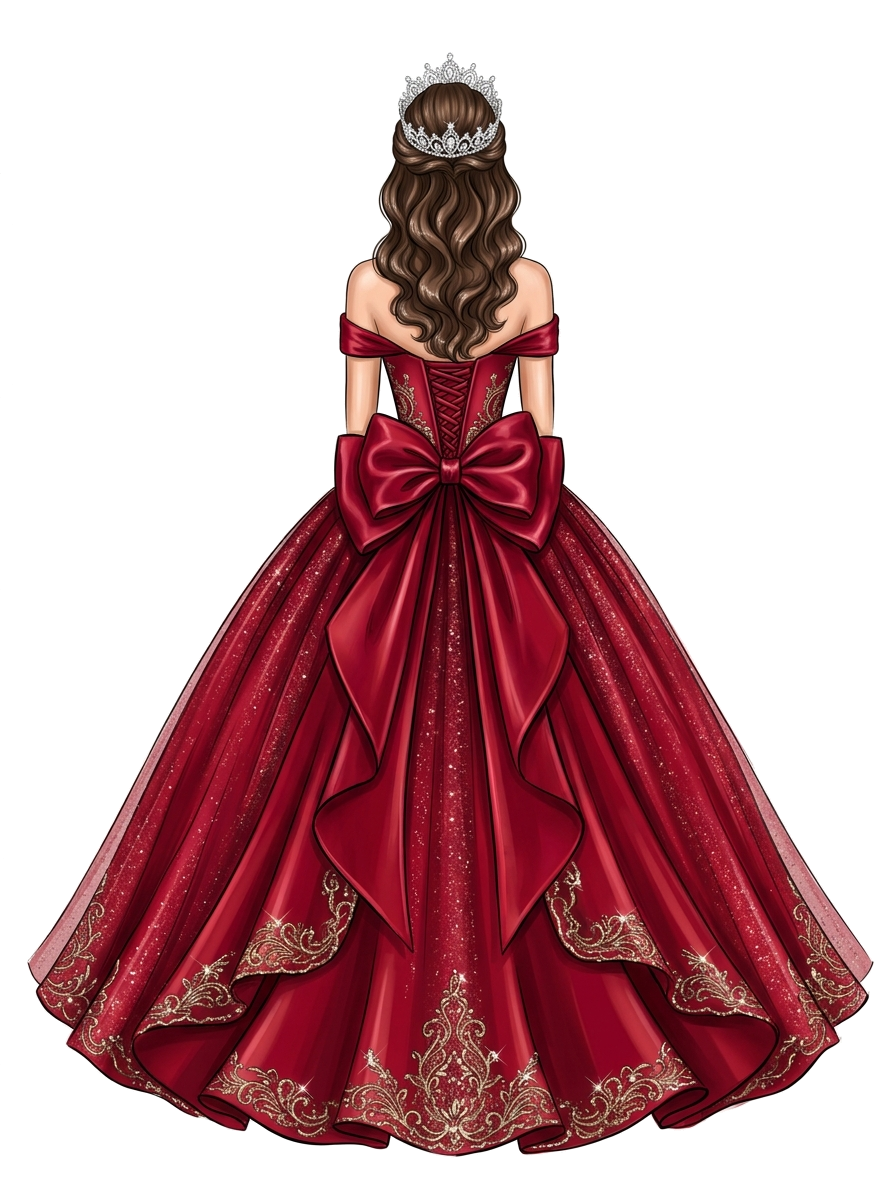
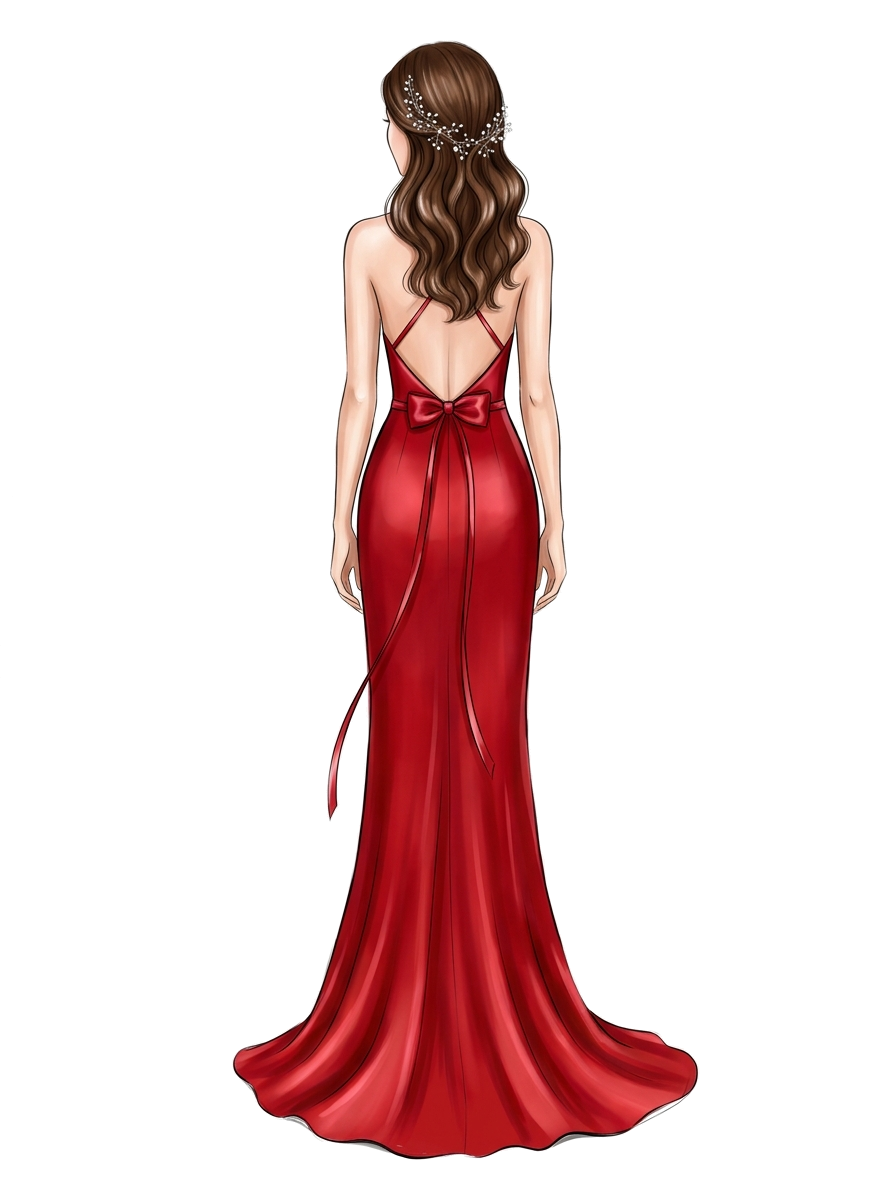
feat(adrianadiaz): update text to 21st Birthday and replace illustration with elegant apple red evening gown

diff --git a/adrianadiaz/index.html b/adrianadiaz/index.html
@@ -5,31 +5,31 @@
   <meta charset="UTF-8" />
   <meta name="viewport" content="width=device-width, initial-scale=1.0, viewport-fit=cover" />
   <meta name="theme-color" content="#fbf8f3" />
-  <title>Adriana — Celebration</title>
-  <meta name="title" content="Adriana — Celebration" />
+  <title>Adriana — 21st Birthday</title>
+  <meta name="title" content="Adriana — 21st Birthday" />
   <meta name="description"
-    content="Join us to celebrate Adriana. Saturday, December 12, 2026 at 9095 Carmen Avila Rd, Edinburg, TX." />
+    content="Join us to celebrate Adriana's 21st Birthday! Saturday, December 12, 2026 at 9095 Carmen Avila Rd, Edinburg, TX." />
 
   <!-- Open Graph / iMessage / WhatsApp / Facebook Link Previews -->
   <meta property="og:type" content="website" />
   <meta property="og:url" content="https://disenosluna.com/adrianadiaz/" />
-  <meta property="og:site_name" content="Adriana — Celebration" />
-  <meta property="og:title" content="Adriana — Celebration" />
+  <meta property="og:site_name" content="Adriana — 21st Birthday" />
+  <meta property="og:title" content="Adriana — 21st Birthday" />
   <meta property="og:description"
-    content="Join us to celebrate Adriana. Saturday, December 12, 2026 at 9095 Carmen Avila Rd, Edinburg, TX." />
+    content="Join us to celebrate Adriana's 21st Birthday! Saturday, December 12, 2026 at 9095 Carmen Avila Rd, Edinburg, TX." />
   <meta property="og:image" content="https://disenosluna.com/adrianadiaz/photos/og-preview.jpg" />
   <meta property="og:image:secure_url" content="https://disenosluna.com/adrianadiaz/photos/og-preview.jpg" />
   <meta property="og:image:type" content="image/jpeg" />
   <meta property="og:image:width" content="1200" />
   <meta property="og:image:height" content="675" />
-  <meta property="og:image:alt" content="Celebration invitation for Adriana" />
+  <meta property="og:image:alt" content="21st Birthday celebration invitation for Adriana" />
 
   <!-- Twitter / X Card Link Previews -->
   <meta name="twitter:card" content="summary_large_image" />
   <meta name="twitter:url" content="https://disenosluna.com/adrianadiaz/" />
-  <meta name="twitter:title" content="Adriana — Celebration" />
+  <meta name="twitter:title" content="Adriana — 21st Birthday" />
   <meta name="twitter:description"
-    content="Join us to celebrate Adriana. Saturday, December 12, 2026 at 9095 Carmen Avila Rd, Edinburg, TX." />
+    content="Join us to celebrate Adriana's 21st Birthday! Saturday, December 12, 2026 at 9095 Carmen Avila Rd, Edinburg, TX." />
   <meta name="twitter:image" content="https://disenosluna.com/adrianadiaz/photos/og-preview.jpg" />
 
   <!-- Favicon / Apple Touch Icon -->
@@ -53,7 +53,7 @@
        BESPOKE ENVELOPE ENTRY POPUP
   ══════════════════════════════════════════════════════════════ -->
   <div id="entry-popup-overlay" class="entry-overlay" role="dialog" aria-modal="true"
-    aria-label="Invitation for Adriana's Celebration">
+    aria-label="Invitation for Adriana's 21st Birthday">
 
     <!-- Floating Luxury Bow & Sparkle Elements in the Sky Background -->
     <div class="entry-cloud-western-elements" aria-hidden="true">
@@ -132,11 +132,11 @@
             <!-- Single celebrant portrait in soft arch -->
             <div class="card-portrait-ring">
               <span class="card-portrait-arch"><img src="photos/celebrant.png" alt="Adriana"
-                  class="card-portrait-img" style="object-position: center 20%;" /></span>
+                  class="card-portrait-img" style="object-position: center 10%;" /></span>
             </div>
 
             <!-- Title & Celebrant Name -->
-            <div class="card-quince-script" data-i18n="invite-quince">The Celebration of</div>
+            <div class="card-quince-script" data-i18n="invite-quince">21st Birthday</div>
             <h2 class="card-celebrant-name">ADRIANA</h2>
             <div class="card-flourish-accent" aria-hidden="true">✦ &nbsp; ❦ &nbsp; ✦</div>
           </div>
@@ -260,9 +260,9 @@
 
         <p class="parents-line" data-i18n="invite-parents" style="display: none;"></p>
 
-        <p class="invite-preamble" data-i18n="invite-preamble">CORDIALLY INVITES YOU TO CELEBRATE</p>
+        <p class="invite-preamble" data-i18n="invite-preamble">CORDIALLY INVITES YOU TO CELEBRATE THE</p>
 
-        <h1 class="quince-script-title" data-i18n="invite-quince">The Celebration of</h1>
+        <h1 class="quince-script-title" data-i18n="invite-quince">21st Birthday of</h1>
 
         <p class="daughter-subtitle" data-i18n="invite-daughter" style="display: none;"></p>
 
@@ -283,7 +283,7 @@
 
         <!-- ─── ENRICHMENT MODULE 1: ADD TO CALENDAR BUTTONS ─── -->
         <div class="calendar-btn-group scroll-fade-in" style="display: flex; gap: 0.65rem; justify-content: center; align-items: center; margin: 0.9rem auto 0.4rem; flex-wrap: wrap;">
-          <a href="https://calendar.google.com/calendar/render?action=TEMPLATE&text=Adriana%27s+Celebration&dates=20261212T180000/20261213T010000&details=Join+us+to+celebrate+Adriana!+Reception+starts+at+6:00+PM.&location=9095+Carmen+Avila+Rd%2C+Edinburg%2C+TX+78542"
+          <a href="https://calendar.google.com/calendar/render?action=TEMPLATE&text=Adriana%27s+21st+Birthday&dates=20261212T180000/20261213T010000&details=Join+us+to+celebrate+Adriana%27s+21st+Birthday!+Party+starts+at+6:00+PM.&location=9095+Carmen+Avila+Rd%2C+Edinburg%2C+TX+78542"
             target="_blank" rel="noopener noreferrer" class="calendar-add-btn"
             style="display: inline-flex; align-items: center; gap: 6px; padding: 0.45rem 0.95rem; font-family: 'Montserrat', sans-serif; font-size: 0.68rem; font-weight: 600; letter-spacing: 0.12em; text-transform: uppercase; color: #a31d24; background: #fffdfa; border: 1.2px solid rgba(163,29,36,0.35); border-radius: 20px; text-decoration: none; box-shadow: 0 2px 8px rgba(163,29,36,0.08); transition: transform 0.2s ease, box-shadow 0.2s ease;">
             <svg viewBox="0 0 24 24" width="13" height="13" fill="none" stroke="currentColor" stroke-width="2" stroke-linecap="round" stroke-linejoin="round">
@@ -294,8 +294,8 @@
             </svg>
             <span>+ Google Calendar</span>
           </a>
-          <a href="data:text/calendar;charset=utf8,BEGIN:VCALENDAR%0AVERSION:2.0%0ABEGIN:VEVENT%0ASUMMARY:Adriana%27s%20Celebration%0ADESCRIPTION:Join%20us%20to%20celebrate%20Adriana!%20Reception%20starts%20at%206:00%20PM.%0ALOCATION:9095%20Carmen%20Avila%20Rd%2C%20Edinburg%2C%20TX%2078542%0ADTSTART:20261213T000000Z%0ADTEND:20261213T060000Z%0AEND:VEVENT%0AEND:VCALENDAR"
-            download="Adrianas-Celebration.ics" class="calendar-add-btn"
+          <a href="data:text/calendar;charset=utf8,BEGIN:VCALENDAR%0AVERSION:2.0%0ABEGIN:VEVENT%0ASUMMARY:Adriana%27s%2021st%20Birthday%0ADESCRIPTION:Join%20us%20to%20celebrate%20Adriana%27s%2021st%20Birthday!%20Party%20starts%20at%206:00%20PM.%0ALOCATION:9095%20Carmen%20Avila%20Rd%2C%20Edinburg%2C%20TX%2078542%0ADTSTART:20261213T000000Z%0ADTEND:20261213T060000Z%0AEND:VEVENT%0AEND:VCALENDAR"
+            download="Adrianas-21st-Birthday.ics" class="calendar-add-btn"
             style="display: inline-flex; align-items: center; gap: 6px; padding: 0.45rem 0.95rem; font-family: 'Montserrat', sans-serif; font-size: 0.68rem; font-weight: 600; letter-spacing: 0.12em; text-transform: uppercase; color: #1a1a1a; background: #fffdfa; border: 1.2px solid rgba(212,175,55,0.45); border-radius: 20px; text-decoration: none; box-shadow: 0 2px 8px rgba(74,55,32,0.08); transition: transform 0.2s ease, box-shadow 0.2s ease;">
             <svg viewBox="0 0 24 24" width="13" height="13" fill="none" stroke="currentColor" stroke-width="2" stroke-linecap="round" stroke-linejoin="round">
               <path d="M12 2v10m0 0l-3-3m3 3l3-3M5 14v5a2 2 0 002 2h10a2 2 0 002-2v-5"></path>
@@ -307,7 +307,7 @@
 
         <!-- Pure Elegant Typographic Countdown Directly Below Date Box (Hidden: Basic Package) -->
         <div class="pure-countdown-section scroll-fade-in" role="timer"
-          aria-label="Counting down the days for Adriana's Celebration" style="display: none;">
+          aria-label="Counting down the days for Adriana's 21st Birthday" style="display: none;">
 
           <!-- Watermarks behind countdown -->
           <div class="card-bg-watermark-wrap wm-wrap-countdown" aria-hidden="true">
@@ -366,14 +366,14 @@
             <img src="photos/bow-crimson-velvet.png" alt="" width="52" height="38" style="filter: drop-shadow(0 3px 6px rgba(74,40,16,0.35));" />
           </div>
           <div class="message-portrait-wrap" style="box-shadow: 0 12px 28px rgba(74, 55, 32, 0.2), 0 0 0 2px #d4af37, 0 0 0 4px #ffffff;">
-            <img src="photos/celebrant.png" alt="Adriana" class="message-portrait-img" style="object-position: center 20%;" />
+            <img src="photos/celebrant.png" alt="Adriana" class="message-portrait-img" style="object-position: center 10%;" />
           </div>
         </div>
 
         <div class="message-copy">
           <span class="message-quote-mark" aria-hidden="true">&ldquo;</span>
           <p class="message-quote-text" style="text-align: center; max-width: 360px; margin: 0 auto 0.75rem;">
-            Your love, laughter, and company are requested on this unforgettable evening as we celebrate Adriana. Let’s make beautiful memories together!
+            Your love, laughter, and company are requested on this unforgettable evening as we celebrate Adriana's 21st Birthday. Let’s make beautiful memories together!
           </p>
           <div class="vignette-ornament" aria-hidden="true" style="margin: 0.2rem 0 0.6rem;">✦ &nbsp; ❦ &nbsp; ✦</div>
           <span class="message-signature">Adriana</span>
@@ -520,7 +520,7 @@
           <div class="court-crown-motif" aria-hidden="true">
             <img src="photos/emblem-venue-location.svg" alt="" width="56" height="56" style="filter: drop-shadow(0 2px 6px rgba(74,40,16,0.25));" />
           </div>
-          <span class="padrinos-role-badge">RECEPTION &amp; CELEBRATION</span>
+          <span class="padrinos-role-badge">21ST BIRTHDAY RECEPTION</span>
           <h3 class="padrinos-names" style="font-size: 1.45rem; margin-bottom: 0.35rem; letter-spacing: 0.04em; color: var(--text-dark);">9095 Carmen Avila Rd</h3>
           <p style="font-family: 'Montserrat', sans-serif; font-size: 0.88rem; font-weight: 600; letter-spacing: 0.14em; color: #a31d24; margin-bottom: 0.75rem; text-transform: uppercase;">
             Edinburg, TX 78542
@@ -736,7 +736,7 @@
             <div class="vignette-ornament" aria-hidden="true">✦ &nbsp; ❦ &nbsp; ✦</div>
 
             <p class="vignette-prose">
-              Dinner will be served at 7:15 PM, followed by music, drinks, and lively dancing to celebrate Adriana.
+              Dinner will be served at 7:15 PM, followed by music, drinks, and lively dancing to celebrate Adriana's 21st Birthday.
             </p>
           </div>
           <!-- ─── END ENRICHMENT MODULE 4A ─── -->
@@ -884,7 +884,7 @@
       <button id="close-modal-btn" class="close-modal" aria-label="Close modal">&times;</button>
 
       <div class="modal-header">
-        <h3 class="modal-title" data-i18n="modal-title">Confirm Attendance for Adriana's Celebration</h3>
+        <h3 class="modal-title" data-i18n="modal-title">Confirm Attendance for Adriana's 21st Birthday</h3>
         <p class="modal-subtitle" data-i18n="modal-subtitle">Saturday, December 12, 2026</p>
       </div>
 
@@ -951,11 +951,11 @@
       </svg>
       <span class="fc-line"></span>
     </div>
-    <p class="footer-names">Adriana • Celebration</p>
+    <p class="footer-names">Adriana • 21st Birthday</p>
     <p class="footer-date">Saturday, December 12, 2026</p>
   </footer>
 
-  <script src="main.js?v=8.4.1"></script>
+  <script src="main.js?v=8.5.0"></script>
 </body>
 
 </html>

diff --git a/adrianadiaz/main.js b/adrianadiaz/main.js
@@ -11,7 +11,7 @@
  */
 const GOOGLE_SHEETS_RSVP_URL = 'https://script.google.com/macros/s/AKfycbw-sijLfCAhh7jIMivx0ru1eMGB5on5PS6N1NCoOfSbM4tnGo-ESCpsQJ4uaK8pNIPL/exec';
 const EVENT_SLUG = 'adrianadiaz';
-const CLIENT_NAME = "Adriana's Celebration (Adriana Diaz)";
+const CLIENT_NAME = "Adriana's 21st Birthday (Adriana Diaz)";
 const CLIENT_EMAIL = 'diazadriana2005@yahoo.com';
 
 document.addEventListener('DOMContentLoaded', () => {
@@ -55,17 +55,17 @@ document.addEventListener('DOMContentLoaded', () => {
   const translations = {
     en: {
       'entry-invited': "You're Invited!",
-      'entry-subtitle': 'THE CELEBRATION OF ADRIANA',
+      'entry-subtitle': "ADRIANA'S 21ST BIRTHDAY",
       'seal-hint-desktop': '✦ CLICK TO OPEN ✦',
       'seal-hint-mobile': '✦ TAP TO OPEN ✦',
-      'invite-quince': 'Celebration',
+      'invite-quince': '21st Birthday of',
       'invite-parents': '',
-      'invite-preamble': 'CORDIALLY INVITES YOU TO CELEBRATE',
-      'invite-daughter': 'THE CELEBRATION OF',
+      'invite-preamble': 'CORDIALLY INVITES YOU TO CELEBRATE THE',
+      'invite-daughter': "ADRIANA'S 21ST BIRTHDAY",
       'invite-date-month': 'DEC',
       'invite-date-day': 'SATURDAY',
       'invite-date-time': 'AT 6:00 PM',
-      'countdown-title': 'COUNTING DOWN TO THE CELEBRATION',
+      'countdown-title': 'COUNTING DOWN TO THE 21ST BIRTHDAY',
       'countdown-today': '🎉 Today Is the Big Day! 🎉',
       'countdown-thankyou': 'Thank you for celebrating with us! 🎊',
       'cd-days': 'Days',
@@ -99,7 +99,7 @@ document.addEventListener('DOMContentLoaded', () => {
       'rsvp-btn': 'CONFIRM ATTENDANCE',
       'rsvp-instruction': 'CLICK THE BUTTON BELOW TO<br />CONFIRM YOUR ATTENDANCE',
       'rsvp-thankyou': 'Thank You So Much!',
-      'modal-title': "Confirm Attendance for Adriana's Celebration",
+      'modal-title': "Confirm Attendance for Adriana's 21st Birthday",
       'modal-subtitle': 'Saturday, December 12, 2026',
       'label-fullname': 'Full Name or Family *',
       'label-phone': 'Phone Number (Optional)',

diff --git a/adrianadiaz/README.md b/adrianadiaz/README.md
@@ -1,11 +1,11 @@
-# Adriana Diaz — Celebration Submission Details
+# Adriana Diaz — 21st Birthday Celebration Details
 
 ## Order & Package Information
 - **Order Reference**: `DL-2026-HYLTT`
 - **Selected Package**: Basic ($55)
 - **Package Price**: $55.00
 - **Customer Language**: ENGLISH (Text customer in English)
-- **Status**: Live / Verified — English only, no audio track, no live countdown (Basic), all western elements replaced with crimson roses & velvet/satin bows.
+- **Status**: Verified — English only, 21st Birthday celebration, long apple red elegant dress, crimson roses & satin bows.
 
 ## Client & Contact Info
 - **Client Name**: Adriana Diaz
@@ -16,7 +16,7 @@
 - **Language Preference**: English Only
 
 ## Celebration Details
-- **Event Type**: Other Celebration
+- **Event Type**: 21st Birthday Celebration
 - **Celebrant Name**: Adriana
 - **Event Date**: Saturday, December 12, 2026 (`2026-12-12`)
 - **Theme & Colors**: Red / Red Bows ("I want invitation red with like a red bow idk something cute")
